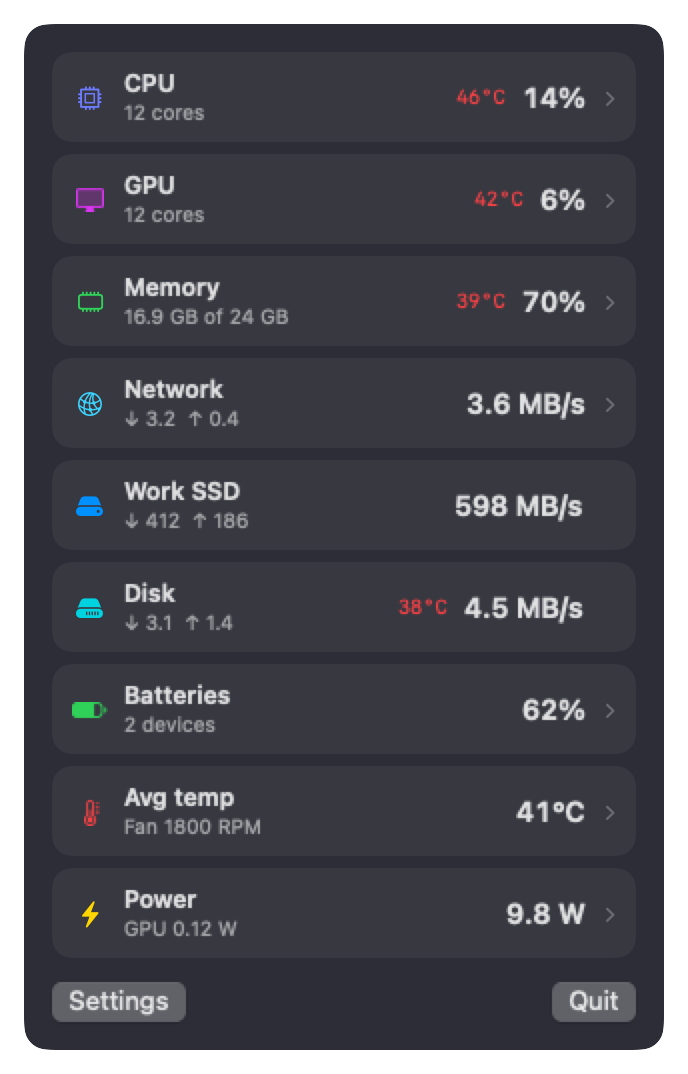
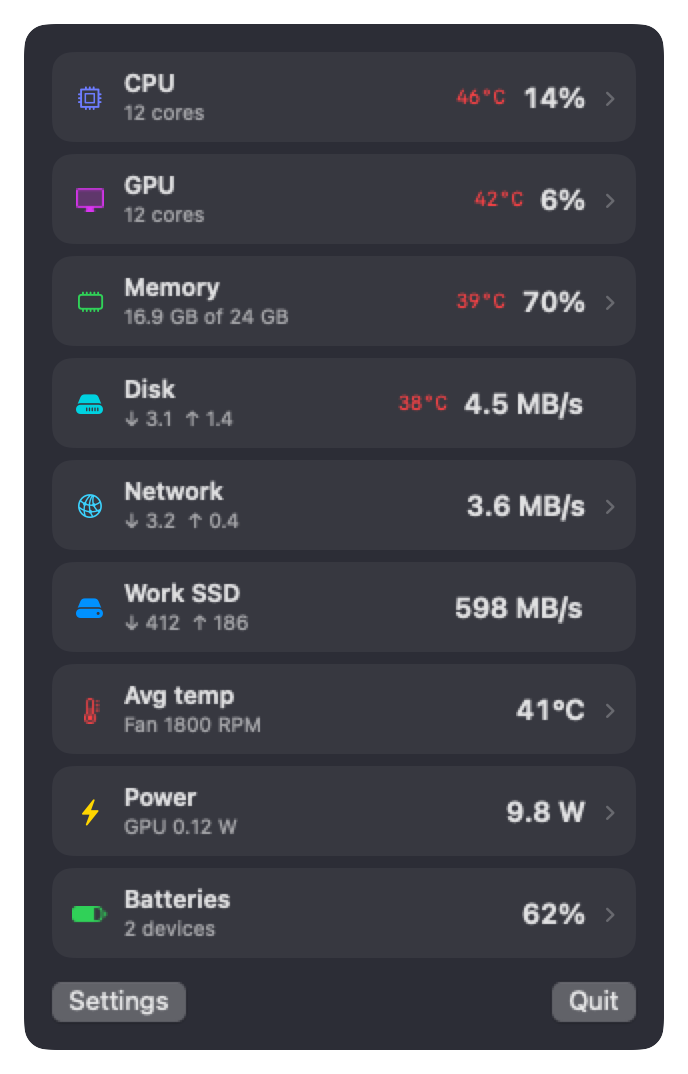
Order everywhere: CPU, GPU, Memory, Disk, Network, Drives, Avg temp, Power, Batteries

diff --git a/Sources/SystemMonitorApp/PanelView.swift b/Sources/SystemMonitorApp/PanelView.swift
@@ -64,7 +64,7 @@ struct PanelView: View {
 
     // MARK: Main panel
 
-    private static let tileOrder: [MonitorItem] = [.cpu, .gpu, .memory, .network, .drives, .disk, .devices, .thermal, .power]
+    private static let tileOrder: [MonitorItem] = [.cpu, .gpu, .memory, .disk, .network, .drives, .thermal, .power, .devices]
     /// Only these have more to show than their tile: cores and sensors, and the memory breakdown.
     private static let pageItems: Set<MonitorItem> = [.cpu, .gpu, .memory, .network, .power, .thermal, .devices]
 

diff --git a/Sources/SystemMonitorApp/Settings.swift b/Sources/SystemMonitorApp/Settings.swift
@@ -3,7 +3,7 @@ import SystemMonitorCore
 
 /// Things that can be shown in the menu bar icon and/or the panel.
 enum MonitorItem: String, CaseIterable, Identifiable {
-    case cpu, gpu, memory, network, drives, disk, devices, thermal, power
+    case cpu, gpu, memory, disk, network, drives, thermal, power, devices
 
     var id: String { rawValue }
 

diff --git a/CHANGELOG.md b/CHANGELOG.md
@@ -5,7 +5,7 @@
 Version 2.0 redesigns the panel and adds temperatures, per-core details and a simpler Settings screen.
 
 New interface
-- The panel is a grid of tiles (CPU, GPU, Memory, Power, Drives, Disk), each with one big number, a short caption and a small graph. Average temperature, batteries and the rest are tiles in the same grid (or one compact row each: Settings, Panel, Rows), in one order everywhere: CPU, GPU, Memory, Network, Drives, Disk, Batteries, Avg temp, Power. About half the height of the old panel.
+- The panel is a grid of tiles (CPU, GPU, Memory, Power, Drives, Disk), each with one big number, a short caption and a small graph. Average temperature, batteries and the rest are tiles in the same grid (or one compact row each: Settings, Panel, Rows), in one order everywhere: CPU, GPU, Memory, Disk, Network, Drives, Avg temp, Power, Batteries. About half the height of the old panel.
 - Click the CPU, GPU or Memory tile for its full page. The other tiles show everything there is on the tile itself.
 - Graphs zoom to their own recent range with 10% headroom, so they always show detail and a spike never looks like it hits the maximum.
 - Read and write arrows on the drive tiles match the menu bar: blue down, orange up.
